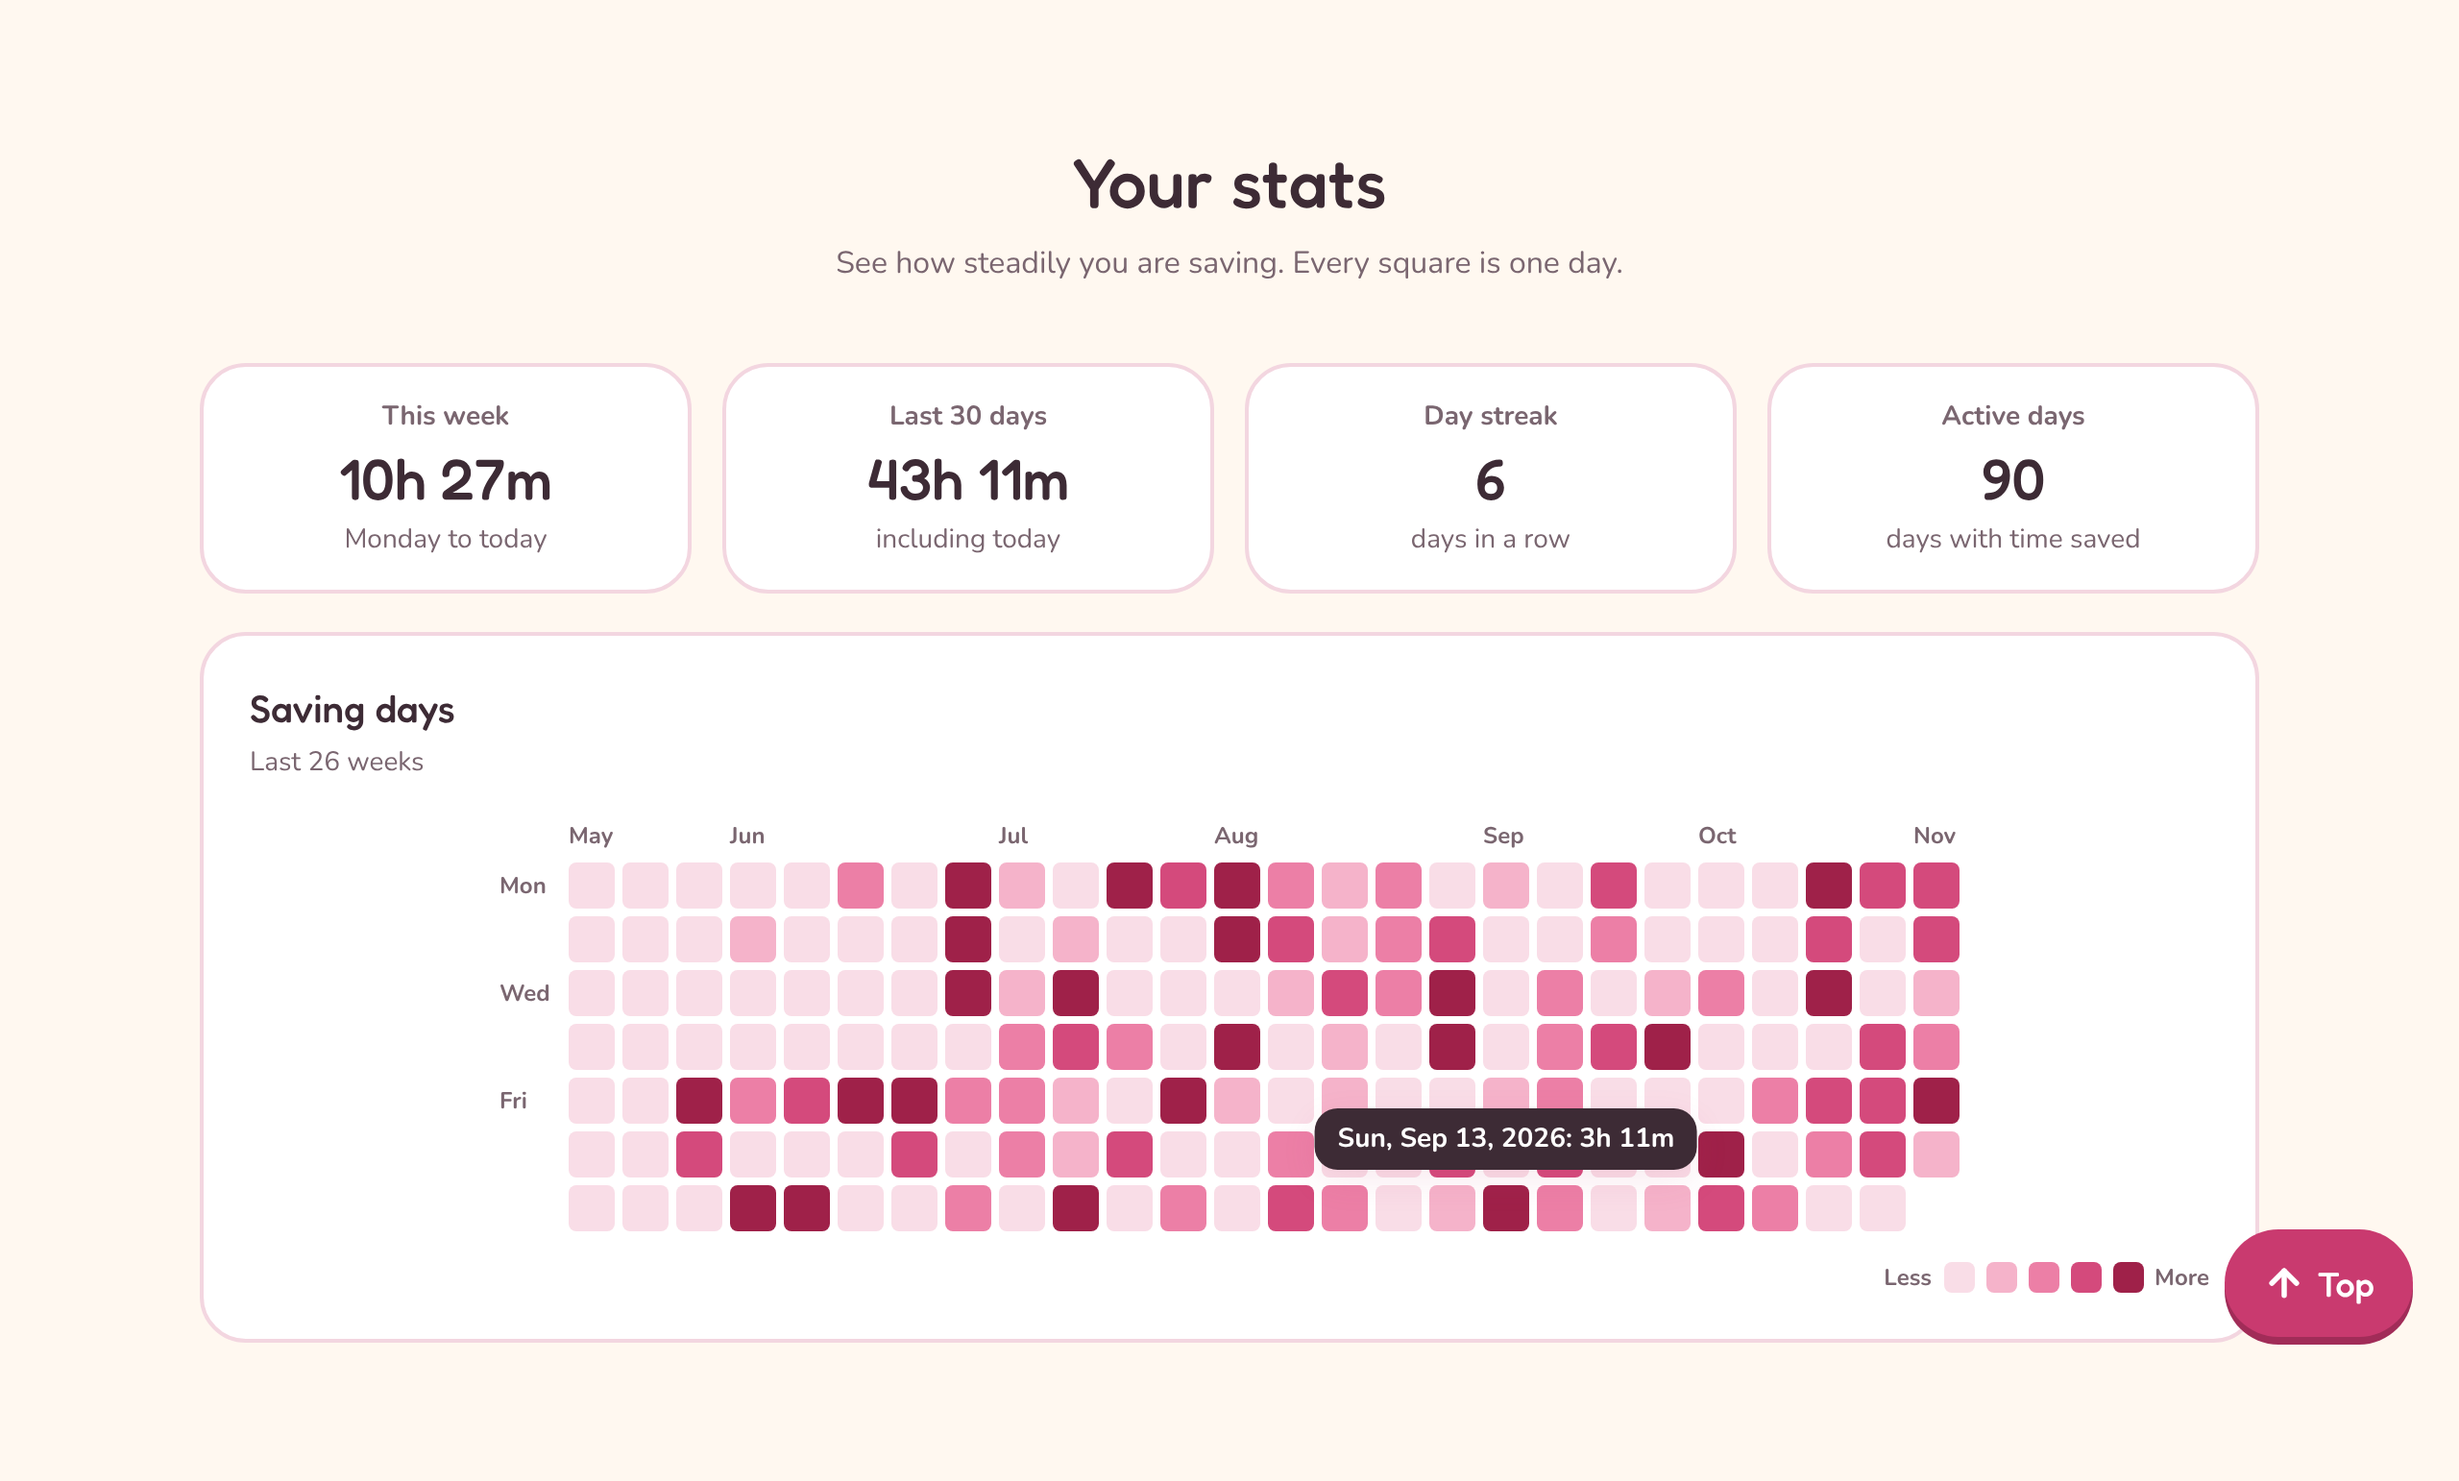
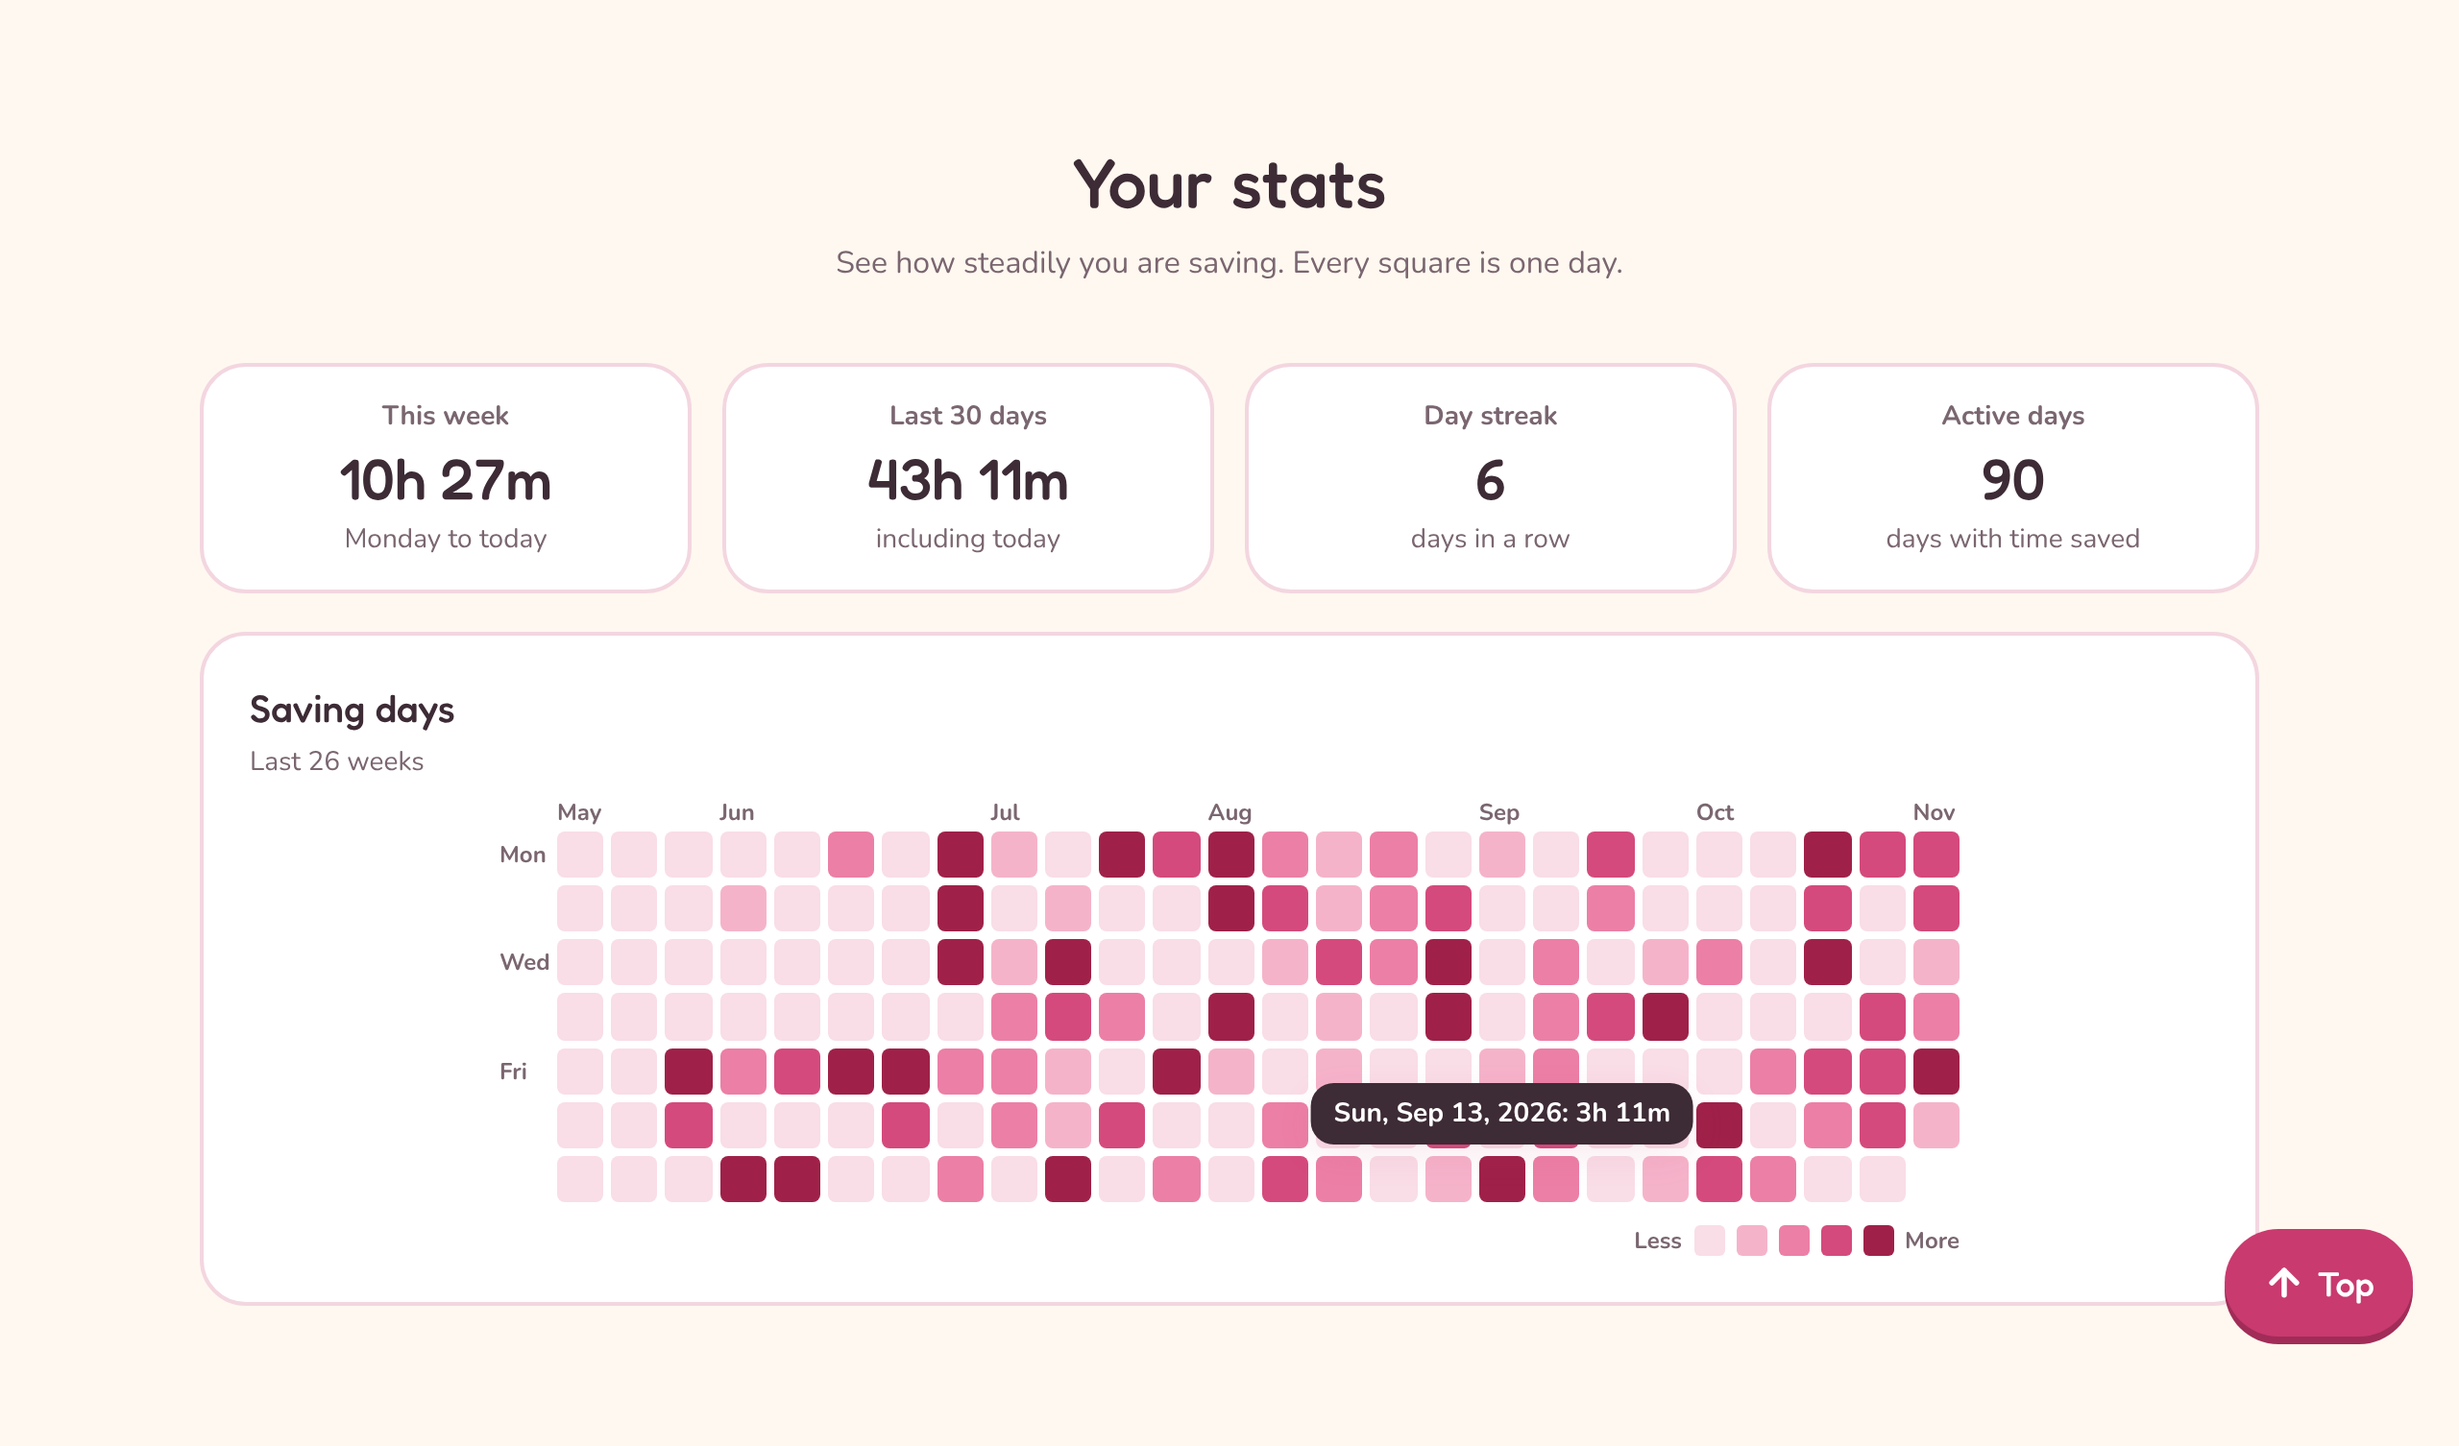
docs: update heatmap behavior in requirements, design, testing and screenshots
Claude-Session: https://claude.ai/code/session_01NuQ1EdFroiMok7k3iHfsp8

diff --git a/docs/TESTING.md b/docs/TESTING.md
@@ -107,8 +107,8 @@ Start with a clean state. A real device or a narrow browser window works for the
 | 9 | Keyboard: press Tab until the heatmap has focus, then use the arrow keys, Home and End | One Tab stop for the whole grid; the focus ring moves between days and the tooltip follows; arrows stop at the edges; Tab leaves the grid |
 | 10 | Screen reader (optional): focus a square | It reads the date and the total, for example "Fri, Oct 30, 2026: 1h 30m" |
 | 11 | Refresh the page | Tiles and heatmap show the same numbers |
-| 12 | Phone (360 to 390 px wide): scroll to Your stats | Tiles in a 2 by 2 grid; the heatmap scrolls sideways, starts at the latest week, and the Mon / Wed / Fri labels stay in view; no horizontal scroll of the whole page; tapping a square shows its tooltip |
-| 13 | Desktop (1280 px): look at the layout | Four tiles in one row; the heatmap is centered with larger squares |
+| 12 | Phone (360 to 390 px wide): scroll to Your stats | Tiles in a 2 by 2 grid; the heatmap shows the last 16 weeks, fits the card with **no scrollbar**, and the squares are easy to see; no horizontal scroll of the whole page; tapping a square shows its tooltip, which stays inside the card even at the edges |
+| 13 | Desktop (1280 px): look at the layout | Four tiles in one row; the heatmap shows 26 weeks, centered, with larger squares; make the window narrower than 640 px and it switches to 16 weeks |
 | 14 | Turn on "reduce motion" in the system settings | Nothing animates in the section; everything still works |
 | 15 | Use the page for a week of real data, or open it at midnight | After midnight the new day shows as the last square on the next load (the page does not need to be open at the time) |
 

diff --git a/CHANGELOG.md b/CHANGELOG.md
@@ -10,7 +10,7 @@ All notable changes are documented here. The format follows [Keep a Changelog](h
 
 - **Your stats** section (US-13) with four tiles: this week (Monday to today), last 30 days, day streak and active days, all computed from deposits and updated right after each deposit
 - **Saving-days heatmap**: one square per day for the last 26 weeks, four shades by time saved that day, month and weekday labels, "Less / More" legend, tooltip with the date and total on hover, focus or tap
-- Keyboard and screen reader support for the heatmap: one tab stop, arrow keys move between days, every square has a text label, plus a text summary; on narrow screens it scrolls sideways and starts at the latest week
+- Keyboard and screen reader support for the heatmap: one tab stop, arrow keys move between days, every square has a text label, plus a text summary; the grid always fits its card with no sideways scrollbar; phones show the last 16 weeks with larger squares, wide screens show 26
 - Empty state with zeros and a short hint when there are no deposits yet
 - Stats domain functions (`dailyTotals`, `weekTotal`, `last30Days`, `streak`, `activeDays`, `heatLevel`, `heatmapWeeks`) with 27 unit tests; 34 more tests in total for the section and heatmap
 - "Your stats" link in the mobile menu

diff --git a/docs/DESIGN.md b/docs/DESIGN.md
@@ -504,7 +504,7 @@ The intro stays short on purpose: visitors mostly want to try the feature, so th
 - **One square per day.** A day with no deposits is the lightest pink; days with deposits are shaded in 4 steps by total time that day: under 1h, 1–2h, 2–3h, 3h or more.
 - Month labels above the columns, "Mon / Wed / Fri" labels on the left, a "Less → More" legend below.
 - Hovering (or focusing) a square shows a tooltip: date and total time, or "no time".
-- Accessibility: the grid has a text summary (number of active days and current streak) for screen readers; shade is never the only cue, the tooltip gives exact values. On narrow screens the grid scrolls horizontally.
+- Accessibility: the grid has a text summary (number of active days and current streak) for screen readers; shade is never the only cue, the tooltip gives exact values. On phones (under 640 px) the grid shows the last 16 weeks, with squares that fill the card width and no scrollbar (changed 2026-11-07 after review; the first version scrolled sideways).
 - Data: total minutes per day, derived from deposits (no extra stored data).
 
 ### 22.2 Modals

diff --git a/docs/REQUIREMENTS.md b/docs/REQUIREMENTS.md
@@ -82,7 +82,7 @@ Acceptance criteria:
 - Hovering or focusing a square shows the date and total time.
 - Numbers and heatmap are computed from real deposits and update immediately after a deposit.
 - With no deposits, the section shows an empty state (lightest squares, zeros) with a short hint instead of sample data.
-- Accessible: text summary for screen readers; scrolls horizontally on narrow screens.
+- Accessible: text summary for screen readers. On phones the grid shows the last 16 weeks and fits the screen with no sideways scrollbar (changed 2026-11-07 after review); wider screens show 26 weeks.
 
 ### 3.2 v1.0 — Must
 
